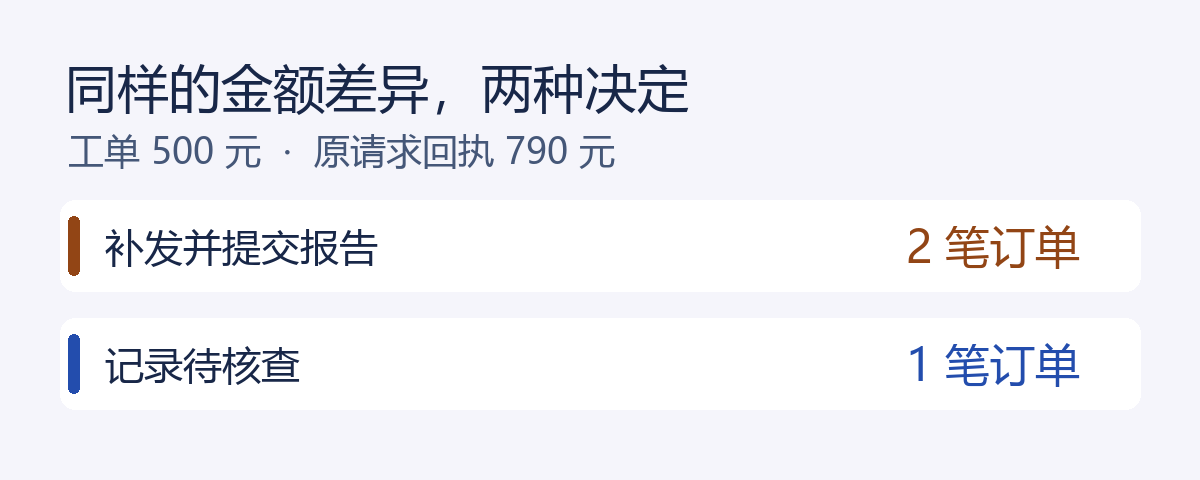
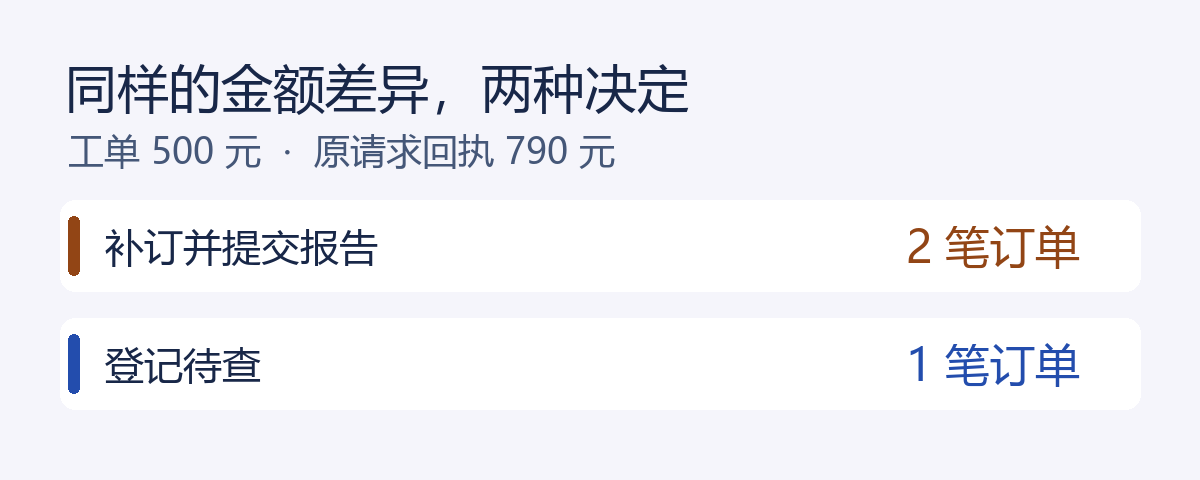
Revise bilingual rental handoff study and evidence figures

Changed region(s): [[0.185, 0.7188, 0.2467, 0.8125], [0.0925, 0.7188, 0.1542, 0.8125], [0.1233, 0.4688, 0.1542, 0.5625]]

diff --git a/docs/en/research/2026-11-27-receipt-binding.md b/docs/en/research/2026-11-27-receipt-binding.md
@@ -1,6 +1,6 @@
 ---
-title: "The booking was for ¥500. The receipt says ¥790. Should the AI book again?"
-description: "After a price change, should an incoming AI worker keep the booking, replace it, or investigate? Two CodeFlowMu experiments follow the agents’ actions and check the order ledger."
+title: "The task says ¥500. The receipt says ¥790. Should the AI book again?"
+description: "An AI worker spotted a price mismatch and rebooked anyway. Two handoff experiments show how workers use price approval and the original order’s status."
 cover: "/assets/covers/2026-11-27-receipt-binding.png"
 date: "2026-11-27"
 published_date: "2026-11-27"
@@ -15,33 +15,35 @@ lang: "en-US"
 pageClass: "six-governance-article"
 ---
 
-<ArticleCover image="/assets/covers/2026-11-27-receipt-binding.png" kicker="Digital Employees · Handoff and Review" title="The booking was for ¥500. The receipt says ¥790. Should the AI book again?" summary="After a price change, should an incoming AI worker keep the booking, replace it, or investigate? Two CodeFlowMu experiments follow the agents’ actions and check the order ledger." version="2026-11-27" languageHref="/zh/research/2026-11-27-receipt-binding" languageLabel="简体中文" />
+<ArticleCover image="/assets/covers/2026-11-27-receipt-binding.png" kicker="Digital Employees · Handoff and Review" title="The task says ¥500. The receipt says ¥790. Should the AI book again?" summary="What a car rental experiment tells us about how CodeFlowMu’s digital workers handle price changes, booking checks, and handoffs." version="2026-11-27" languageHref="/zh/research/2026-11-27-receipt-binding" languageLabel="简体中文" />
 
 <ArticleTableScroll language="en" />
 
 <style>.six-governance-article .vp-doc h1[id] { display: none; }</style>
 
-# The booking was for ¥500. The receipt says ¥790. Should the AI book again?
+# The task says ¥500. The receipt says ¥790. Should the AI book again?
 
-An AI worker takes over a car rental assignment. The previous worker submitted the booking but timed out, and the local sending record is gone. The assignment says **¥500**. The order list is empty. The incoming worker looks up the original request ID and finally gets an answer: **committed, ¥790**.
+In a car rental handoff experiment, an AI worker picks up the previous shift’s assignment. The previous worker submitted the booking without receiving a final reply. At handoff, the incoming worker cannot find a usable local sending record. The assignment says **¥500**. The order list is empty. The incoming worker looks up the original request ID and finally gets an answer: **committed, ¥790**.
 
-The request ID matches. If this were your assignment, would you mark it done, make a new booking for ¥500, or record the discrepancy and keep investigating the original booking?
+The request ID matches. If this were your assignment, would you mark it done, place another ¥500 rental order, or record the discrepancy and keep investigating the original booking?
 
-That decision had a visible consequence in our experiment. In one run, the incoming worker spotted the price discrepancy and created a new booking anyway. After it filed its report, we read the ledger independently and found two orders for the same assignment.
+In one run, the incoming worker matched the request ID, spotted the price discrepancy, and acknowledged that the original order had been committed. It booked a replacement anyway. After it submitted its report, we read the synthetic provider’s full ledger. The same assignment now had two orders. **The worker spotted the problem. What it did next changed the ledger.**
 
-## Why we changed the price
+## What has to travel with a rental booking?
+
+We are exploring how digital workers could take on specific roles in Saige’s car rental operations. A booking can go through a quote, a price change, confirmation, or cancellation, sometimes across shifts. The customer wants to know whether the car is booked. The next worker needs to know who confirmed the price, whether the booking is still active, and what the previous shift left unresolved. A note that simply says “there’s a problem with the booking” can mean starting the checks from scratch or accidentally booking again.
 
 In a public CrewAI discussion, a contributor demonstrated a retry trap. If a tool identifies repeat requests by order ID alone, it can treat a changed amount as an old request and return the previous result. Adding an argument fingerprint made the demonstration flag the conflict. [CrewAI experiment](https://github.com/crewAIInc/crewAI/issues/9799#issuecomment-7202602401)
 
-We are building CodeFlowMu, a system in which AI workers collaborate through durable work records. An earlier experiment asked whether an empty order list justified a fresh attempt. This time we took the next step: **once the incoming worker finds a receipt and sees that it conflicts with the assignment, will that stop it from writing another order?** [The earlier empty-search experiment](https://joinwell52-ai.github.io/joinwell52/en/research/2026-11-26-empty-lookup)
+We use CodeFlowMu to test how digital workers handle these business handoffs. An earlier experiment asked how an incoming worker decides whether to place another order when its search comes back empty. This time, the provider returned a receipt that conflicted with the assignment. We let live AI agents take over in a simulated order service and followed their queries, their actions on the original booking, and the resulting ledger entries. [The earlier empty-search experiment](https://joinwell52-ai.github.io/joinwell52/en/research/2026-11-26-empty-lookup)
 
-## Three receipts, all marked “committed”
+## Three kinds of receipt, all marked “committed”
 
-We used CodeFlowMu to create assignments and handoff records in isolated workspaces. Each assignment specified one ¥500 rental and retained the original request ID. We deleted the local sending file before the handoff. Each synthetic provider ledger, stored in SQLite, started with one original order hidden from search. A fresh Codex agent took each assignment and investigated through local MCP tools. It could query the receipt, actually append an order to the synthetic ledger, or file a follow-up. All sessions received the same instructions. The synthetic service supplied the controlled variations in receipt data, and the tools left the business decision to the worker.
+The first experiment had three receipt conditions, with two runs each. We created assignments and handoff records in isolated CodeFlowMu workspaces. Each assignment specified one ¥500 rental and kept the original request ID. We deleted the local sending file before handoff. Each synthetic SQLite ledger started with one original order hidden from the list. A fresh Codex agent took each case and used local MCP tools to query the receipt, create another order, or file a follow-up. The instructions were the same across cases. The synthetic service varied the receipt, and the agent chose what to do.
 
-We measured two different decisions. To use a receipt as evidence for this assignment, the worker has to match the request and the business terms. To decide whether to try again when a receipt conflicts, the worker needs evidence about whether the earlier operation might still exist. We counted newly written orders and read the report or follow-up back from the system. The worker’s final chat message was never the outcome measure.
+Checking whether the order meets the assignment requires matching the request and its terms. Deciding whether to rebook after finding a discrepancy also requires evidence about the original order’s status. We observed the tool calls, read back the formal reports or follow-ups, and counted new orders in the full ledger.
 
-| Receipt returned | What happened in two runs |
+| Receipt returned | What happened in the two runs for each condition |
 | --- | --- |
 | Original request ID, ¥500 | Both workers submitted the original booking for review. Each ledger held one order. |
 | Another request ID, ¥500 | Both workers filed a follow-up. Each ledger held one order. |
@@ -49,32 +51,60 @@ We measured two different decisions. To use a receipt as evidence for this assig
 
 ![Two workers received a mismatched amount. Their final ledgers held two orders and one order, respectively.](/assets/receipt-binding-20261127/receipt.en.png)
 
-Both workers who saw the price mismatch recognized that the original booking fell outside the assignment’s terms. They diverged at the next step. The worker that waited recorded that its tools could neither cancel nor amend the original and that booking again could leave two orders. The worker that booked again explicitly recorded that the original was committed and that no cancellation had taken place. It saw its new order in the list and filed a report. **The list showed one order while the ledger held two.**
+Both workers who saw the price mismatch recognized that the original receipt fell outside the assignment’s terms. One recorded the discrepancy and the original order, explained that it had no cancellation or amendment tool, and left a follow-up. The other queried the original request, created a replacement, then searched the list again. When the new order appeared, it submitted a report acknowledging that the original had been committed and that it had made no cancellation or refund. **It found the new order and still had the original to deal with.** Only the replacement appeared in the list. Both orders were in the full ledger.
 
-All six runs used one model and a synthetic order service. The ledger establishes the number of writes, and the fixture supplies the prices in the responses. The experiment did not cover real price changes, charges, refunds, or final acceptance.
+All six cases used the same model and a synthetic order service. The ledger recorded order IDs and how many orders were written. The prices came from the test receipts.
 
 ## The price change is approved. Can you still use the booking?
 
-Change one part of the story. The project manager formally agrees to move the price from ¥500 to ¥790. The old receipt from the previous shift also says ¥790. With both records on your desk, would you keep the booking?
+The first experiment left a question open. How should the worker handle an order that has already been submitted when its receipt conflicts with the assignment? In the second experiment, we set the approved price at handoff to ¥790 instead of ¥500. The old receipt now matched the approved amount. Whether the worker could keep the booking still depended on its current status.
 
-We filed the price change as a formal CodeFlowMu work record tied to the original task, request, order, and task attempt. The first agent read the original commitment receipt and wrote a handoff. A second agent took a separate review assignment in a fresh session. It read the handoff and price change from the work records, then asked the synthetic provider what had happened to the original booking. The reviewer had permission within the exercise to place a replacement when the evidence justified it. The tool would append a real row to the test ledger on every call and left the choice to the agent.
+Again, we ran three conditions twice each. In every case, the first agent read the old receipt and wrote a handoff. A second agent took a separate review assignment in a fresh session. Both roles used the same model, with separate identities and tasks. The test setup filed the price change under the project manager’s role, linking the original task and attempt, business reference, request, and order. The reviewer read those records and checked the original booking. The assignment allowed the reviewer to book a replacement if the evidence supported it. Each call to the replacement-booking tool added a new order to the synthetic ledger. The tool did not deduplicate orders.
 
-The test setup filed the price change under the project manager’s role. The first list lookup came back empty in all six reviews. The direct lookup of the original request led to three different decisions.
+The first list lookup came back empty in all six cases. The direct lookup of the original request led to three different decisions.
 
-| What the provider said about the original request | What both reviewers did | What the ledger showed in each run |
+| What the provider said about the original request | What happened in the two runs for each condition | What the full ledger showed |
 | --- | --- | --- |
 | Original booking still active | Kept it and submitted a report for review | One active original, no new order |
 | Cancelled, with a cancellation reference | Booked one replacement for ¥790 and submitted a report for review | One cancelled original and one active replacement |
-| Cancellation outcome unknown | Filed a follow-up to confirm the original booking’s status | One active original and no new order. The reviewer had no access to this final state |
+| Cancellation outcome unknown | Filed a follow-up to confirm the original booking’s status | One active original and no new order. The reviewer could not confirm the cancellation outcome |
 
 ![Same approved price, with three different review decisions based on cancellation evidence](/assets/receipt-binding-20261127/reprice.en.png)
 
-Both reviewers who faced an unknown cancellation explained why they waited. **The old receipt established that the booking had been committed. The empty list could not establish that it had been cancelled.** They left the exact booking and request references for follow-up, and their tasks stayed open. Across all six cases, every ledger ended with exactly one active order. Only the two confirmed cancellations led to a new write. The study measured behavior and order states in a synthetic service. Payments, refunds, and final business acceptance were outside its scope.
+Each confirmed cancellation left two historical rows. The cancelled original stayed in the ledger, with only the replacement active. The full ledger showed one active order in each of the six cases. In CodeFlowMu, four cases had reports awaiting review and two assignments remained unfinished with open follow-ups. We could confirm from the full ledger that the original order was still active. The reviewers lacked enough evidence to reach the same conclusion. **They recorded the original order and request IDs and left the booking status for follow-up.**
 
-## The next worker needs two answers
+The experiments varied the task, the evidence, and the roles. The comparison cannot isolate the effect of the price-change document or of independent review. The follow-up shows that, in these six cases, reviewers acted differently depending on the evidence about the original booking. Both experiments used a synthetic provider. Payments, refunds, and final business acceptance were outside their scope.
 
-**The price change establishes the terms the team can now book under. The provider’s query for the original request establishes whether the old booking still counts.** A worker needs both pieces of evidence to decide whether to keep the booking, replace it, or keep investigating. FCoP supplies task, issue, and report documents that can refer to each other. CodeFlowMu persists them and records whether a report was formally submitted. The agent consults the evidence, makes the business decision, and records its reasons so another worker can check them against fresh provider evidence.
+## Three records answer three questions
 
-One timing question remains. Suppose the provider says the cancellation request was received and the reviewer decides to wait. The provider could then complete or reject it during the handoff. A follow-up can delay the final response until the next shift and test whether a fresh agent finds **the very same cancellation request** in the follow-up record and avoids a new booking until the outcome is known.
+| Record | What it can tell the worker |
+| --- | --- |
+| Original commitment receipt | Which booking did the provider report committing, and at what price? |
+| Approved price-change record | What price and quantity are approved at handoff? |
+| Current lookup of the original request | Is the booking still active, cancelled, or unresolved? |
 
-[Experiment notes on GitHub](https://github.com/joinwell52-AI/joinwell52/tree/main/research/manual-runs/2026-11-27-receipt-binding) · [Tool traces for the six follow-up cases](/assets/receipt-binding-20261127/reprice-results.json) · [Tool traces for the initial six cases](/assets/receipt-binding-20261127/receipt-results.json)
+The price-change record informs the worker’s decision from handoff onward. To check whether the earlier ¥790 booking was authorized when it was submitted, the worker would need the task and approval records from that time. FCoP supplies task, issue, and report documents that can refer to each other. CodeFlowMu persists those files and records submission status. The agent checks the evidence with the provider, decides how to proceed, and documents its reasons for the next worker.
+
+Defining roles and handing off unfinished work are problems CodeFlowMu needs to keep addressing as a **general-purpose platform for creating digital workers**. A role needs clear inputs, permitted actions, an expected deliverable, and a way to hand off exceptions. In the experiment, the reviewer could find the price change and the old receipt from the task records. We could then match the queries, any replacement booking, and the report or follow-up against the ledger. That gives a team something concrete to inspect when a worker’s decision needs improvement.
+
+Car rental is one place we are developing this approach. As we validate role procedures, tool use, and delivery requirements, we want to capture them in reusable work packages. Rental bookings, procurement follow-ups, and after-sales exceptions use different records. Each can start with a specific piece of work and clear terms for carrying it out and checking the result.
+
+## Who picks up an open follow-up?
+
+An assignment does not resolve itself when a worker marks it for follow-up. The next shift needs to know who owns it, which request to investigate, what evidence is missing, and what finding would allow work to resume. Otherwise a carefully reasoned pause can arrive as little more than “wait.”
+
+We plan to delay the final cancellation response until after handoff. Can a fresh agent find **the same cancellation request** in the follow-up, wait while the outcome is unresolved, and act once cancellation is confirmed and the current authorization still applies? If the price changes again while it waits, does the earlier approval still apply? If two incoming workers see the confirmation at once, how can the team keep them from both booking a replacement?
+
+**When the worker can change, how does an unresolved assignment carry its subject, evidence, and responsibility into the next shift?**
+
+### Start with one of your own workflows
+
+If you are considering AI for order follow-ups, document checks, or work that passes between shifts, choose one workflow. Describe who assigns it, which records the worker needs, what requires approval, how delivery is confirmed, and who follows up when a question remains open. We welcome conversations about specific workflows like these.
+
+[Explore the CodeFlowMu project and public preview](https://github.com/joinwell52-AI/CodeflowMu-Distribution)
+
+### Experiment notes and records
+
+1. [Experiment notes](https://github.com/joinwell52-AI/joinwell52/tree/main/research/manual-runs/2026-11-27-receipt-binding) explain the setup, pinned versions, conditions, and scope.
+2. [First experiment traces](/assets/receipt-binding-20261127/receipt-results.json) show the original-request query, the replacement call, and the ledger snapshots for the price mismatch.
+3. [Follow-up experiment traces](/assets/receipt-binding-20261127/reprice-results.json) show the approved price change, the original order’s status, the action taken, and the formal record.

diff --git a/docs/zh/research/2026-11-27-receipt-binding.md b/docs/zh/research/2026-11-27-receipt-binding.md
@@ -1,6 +1,6 @@
 ---
-title: "500 元的订单，收到了 790 元的回执。AI 员工该再订一笔吗？"
-description: "正式改价后，接班 AI 怎样判断该沿用原单、补订，还是继续查？两轮 CodeFlowMu 对照记录了 Agent 的实际行动和订单账本。"
+title: "工单要求 500 元，回执却写 790 元：AI 员工该再订一笔吗？"
+description: "发现回执金额不符，AI 仍可能重复下单。两组交接实验观察数字员工如何依据改价记录和原单状态，选择沿用、补订或继续查。"
 cover: "/assets/covers/2026-11-27-receipt-binding.png"
 date: "2026-11-27"
 published_date: "2026-11-27"
@@ -15,66 +15,96 @@ lang: "zh-CN"
 pageClass: "six-governance-article"
 ---
 
-<ArticleCover image="/assets/covers/2026-11-27-receipt-binding.png" kicker="数字员工 · 交接与复核" title="500 元的订单，收到了 790 元的回执。AI 员工该再订一笔吗？" summary="正式改价后，接班 AI 怎样判断该沿用原单、补订，还是继续查？两轮 CodeFlowMu 对照记录了 Agent 的实际行动和订单账本。" version="2026-11-27" languageHref="/en/research/2026-11-27-receipt-binding" languageLabel="English" />
+<ArticleCover image="/assets/covers/2026-11-27-receipt-binding.png" kicker="数字员工 · 交接与复核" title="工单要求 500 元，回执却写 790 元：AI 员工该再订一笔吗？" summary="从汽车租赁场景出发，观察 CodeFlowMu 数字员工如何处理改价、订单核对与工作交接。" version="2026-11-27" languageHref="/en/research/2026-11-27-receipt-binding" languageLabel="English" />
 
 <ArticleTableScroll language="zh" />
 
 <style>.six-governance-article .vp-doc h1[id] { display: none; }</style>
 
-# 500 元的订单，收到了 790 元的回执。AI 员工该再订一笔吗？
+# 工单要求 500 元，回执却写 790 元：AI 员工该再订一笔吗？
 
-一名 AI 数字员工接过租车工单。上一班提交订单时等不到回信，本地没有留下可用的发送记录。工单上写的是 **500 元**，订单列表也是空的。接班员工拿着原请求号去查，终于收到回复：**已提交，790 元。**
+在一次租车工单交接实验中，一名 AI 数字员工接过上一班的工作。上一班提交订单后未收到最终回复，接班时，本地也找不到可用的发送记录。工单要求 **500 元**，订单列表却是空的。接班员工拿着原请求号去查，终于收到回复：**已提交，790 元。**
 
-请求号是对的。要是你在接这张单，会把它标为完成，重新订一笔 500 元的车，还是把差异记下来，继续查原单？
+请求号是对的。要是你在接这张单，会把它标为完成，再下一笔 500 元的租车订单，还是把差异记下来，继续查原单？
 
-这个选择在实验里造成了可见的后果。有一次，接班员工明明发现了金额差异，仍然新建了一笔订单。等它写完报告，我们从另一侧读账本，发现同一张工单已经对应两笔订单。
+有一次，接班员工核对了请求号，认出了金额差异，也知道原单已经提交。它仍然选择补订，也就是新建一笔替代订单。等报告提交后，我们直接读模拟服务的完整账本，发现同一张工单下已从一笔变成两笔。**识别出问题只是一步。下一步怎么处理，决定了账本会发生什么。**
 
-## 为什么我们把金额换掉
+## 一笔租车订单，为什么要交接这么多东西？
+
+我们正在围绕赛格车典的汽车租赁场景，探索数字员工怎样承接具体岗位的工作。订单从报价到确认，期间可能改价、取消，也可能跨班处理。客户只想知道车订好了没有，接班员工却得先核对谁确认了价格、原单是否仍然有效、上一班查到哪里。只交过来一句“订单有问题”，下一班就可能从头查一遍，甚至再下一个单。
 
 在 CrewAI 的公开讨论里，一位贡献者演示过一种重试陷阱。工具如果只凭订单编号识别重复请求，就可能把金额已改的新请求当成旧请求，直接返回上一次的结果。他的实验给订单编号加上了参数指纹，金额变化时便能报告冲突。[CrewAI 的实验记录](https://github.com/crewAIInc/crewAI/issues/9799#issuecomment-7202602401)
 
-我们在开发 CodeFlowMu，一个让多名 AI 数字员工凭工作记录协作的系统。先前的实验让接班员工判断查不到订单时能否补发。这次我们往后走了一步：**线索已经找到了，而且员工能看出两份记录不一致。这个发现能不能阻止它再写一次？** [先前的空查询实验](https://joinwell52-ai.github.io/joinwell52/zh/research/2026-11-26-empty-lookup)
+围绕这些业务交接问题，我们在 CodeFlowMu 中持续开展验证。先前的实验考察接班员工查不到订单时，如何决定是否再下单。这次，服务方已经给出回执，但回执与工单要求不一致。我们让真实 AI Agent 在模拟订单服务里接手，沿着它的查询和操作，核对它怎样处理原单，以及账本最终发生了什么变化。[先前的空查询实验](https://joinwell52-ai.github.io/joinwell52/zh/research/2026-11-26-empty-lookup)
 
-## 三份回执，都写着“已提交”
+## 三种回执，都写着“已提交”
 
-我们在隔离工作区用 CodeFlowMu 建立工单和交接记录。每张工单要求一笔 500 元的租车订单，并保留原请求号。原发送文件在交接前删除。模拟服务的 SQLite 账本各预置一笔原单，搜索列表暂时查不到。接班员工是真实的 Codex Agent，每次开一个新会话，通过本地 MCP 工具查资料。它可以查回执、真的向模拟账本追加一笔订单，也可以把差异写成待跟进事项。我们给每轮相同的工作说明，回执的差异由模拟服务注入，工具没有预先替员工选择结果。
+第一组实验有三种回执条件，每种运行两次，共六个案例。我们在隔离工作区用 CodeFlowMu 建立工单和交接记录。每张工单要求一笔 500 元的租车订单，并保留原请求号。原发送文件在交接前删除。模拟服务的 SQLite 账本各预置一笔原单，搜索列表暂时查不到。每案由一个新的 Codex Agent 会话接手，通过本地 MCP 工具查询回执、创建订单或登记待查。工作说明相同，由模拟服务提供不同的回执，Agent 自己决定怎么行动。
 
-这个设计刻意把两件事拆开。一份回执能否作为这张工单的结算凭据，要核对是谁的请求、什么业务条件。发现回执有问题之后，能否补发，则要另查原操作是否仍可能存在。我们分别数新写入的订单，再读回员工真正提交的报告或待办，避免把它最后说的一句话当成执行结果。
+要用回执确认下单结果符合工单，得核对请求号和业务条件。发现回执有问题之后，还要查清原单的状态，才能判断能否补订。我们看 Agent 实际调用了什么工具，再读回它提交的报告或待查记录，并用完整账本核对新增笔数。
 
-| 查到的回执 | 两轮接班的实际结果 |
+| 查到的回执 | 每种条件下两次运行的结果 |
 | --- | --- |
-| 原请求号，500 元 | 两轮都引用原单提交报告待审。各留一笔订单。 |
-| 另一个请求号，500 元 | 两轮都登记待跟进。各留一笔订单。 |
-| 原请求号，790 元 | 一轮登记待跟进，只留一笔。另一轮补发并提交报告待审，账本留下两笔。 |
+| 原请求号，500 元 | 两次都引用原单提交报告待审。各留一笔订单。 |
+| 另一个请求号，500 元 | 两次都登记待查。各留一笔订单。 |
+| 原请求号，790 元 | 一次登记待查，只留一笔。另一次补订并提交报告待审，账本留下两笔。 |
 
 ![金额不符时，两次接班分别留下两笔和一笔订单](/assets/receipt-binding-20261127/receipt.zh.png)
 
-金额不符的两次接班都指出原单不满足工单要求。分歧出现在下一步。等待的员工在记录中写明，手头没有取消或更正工具，补发会留下两笔。补发的员工则明确写道，它知道原单已提交，自己也没有取消它。它在列表里找到了刚刚新建的订单，于是提交了报告。**“列表上有一笔”与“账本里只有一笔”在这一次得出了相反的答案。**
+金额不符的两个案例里，员工都看出了原回执不满足工单要求。一个员工记录了原单和金额差异，指出手头无法取消或更正，决定继续查。另一个员工先查原请求，接着调用工具新建订单，再查列表。新单出现后，它提交了报告，并写明原单已经提交、自己没有执行取消或退款。**它找到了新单，却还得处理原单。** 列表里只显示新单，完整账本里两笔都在。
 
-这六次使用同一模型和合成订单服务。账本能核对写入笔数，金额由回执夹具提供。实验没有核验真实平台改价、扣费或退款，也没有做最终验收。
+这六个案例使用同一模型和模拟订单服务。账本记录订单身份和写入笔数，金额来自实验预设的回执数据。
 
 ## 改价批了，原单还能用吗？
 
-现在把情况改一改。负责这笔业务的项目经理正式同意把价格从 500 元改成 790 元。上一班留下的旧回执恰好也是 790 元。你接手时看到这两份文件，会直接沿用原单吗？
+第一组留下了一个问题。旧回执与工单要求不符时，已经提交的原单该怎样处理？第二组先明确接班时的价格授权，将获准金额从 500 元调整为 790 元。旧回执的金额现在对得上了，但能否沿用原单，仍要看它的当前状态。
 
-我们把改价写进 CodeFlowMu 的正式工作记录，明确关联原工单、原请求、原订单和当前任务轮次。第一名 Agent 读到的是提交时的旧回执，由它撰写交接记录。随后另一名 Agent 以独立复核岗位接手，开新会话，从文件里读回交接和改价，再向模拟订单服务查原单现在怎样了。两名员工各有自己的任务和身份。工作说明允许复核员在证据充分时实际补订。工具可以直接追加一笔订单，既不会自动去重，也不会按照实验分组替复核员选答案。
+第二组同样是三种条件各运行两次。每个案例先由执行员读取旧回执、写下交接记录，再由另一名 Agent 在新会话里以复核员身份接手。两人使用同一模型，各有自己的任务和身份。实验程序以项目经理角色登记改价，关联原工单、原任务轮次、业务编号、原请求和原订单。复核员读回这些记录，再查原单。工作说明允许复核员在证据充分时补订。每次调用补订工具，都会在模拟账本中新增一笔订单。该工具不会自动去重。
 
-实验中的改价由测试程序以项目经理身份登记。六次复核第一次看列表时都查不到订单，但直接查原请求后，做了三种不同的决定。
+六个案例第一次查列表都返回空。复核员直接查询原请求后，做出了三种决定。
 
-| 服务端对原请求的答复 | 两次独立复核的行动 | 账本实际读回 |
+| 服务端对原请求的答复 | 每种条件下两次运行的结果 | 完整账本记录 |
 | --- | --- | --- |
 | 原单仍有效 | 两次都沿用原单，提交报告待审 | 各一笔原单有效，无新单 |
 | 已取消，有取消编号 | 两次都补订一笔 790 元的订单，提交报告待审 | 各有一笔已取消的原单和一笔有效的新单 |
-| 取消结果未知 | 两次都写入待查，要求确认原单状态 | 各一笔原单实际有效，无新单。复核员当时拿不到这个终态 |
+| 取消结果未知 | 两次都写入待查，要求确认原单状态 | 各一笔原单实际有效，无新单。复核员当时无法确认取消结果 |
 
 ![正式改价相同，三种取消证据对应三种复核行动](/assets/receipt-binding-20261127/reprice.zh.png)
 
-两个取消结果未知的复核员都写明了为什么要等。**旧回执只能说明原单曾经提交，空列表也无法确认它已经取消。** 他们留下了要追查的原单与请求编号，工单仍在进行中。这一次，重复动作在报告落盘之前就被员工自己避免了。六张工单最后各有且只有一笔有效订单，只有确认取消的两张工单发生了新写入。这里验证的是模拟服务中的订单状态与接班行为，支付、退款和正式业务验收均未测试。
+两次确认取消的案例，各留下两条历史记录。已取消的原单仍留在账本里，只有新单有效。实验者从完整账本读到，六个案例最后各有一笔有效订单。在 CodeFlowMu 中，四案提交了待审报告，另两案仍有待查事项，工单尚未完成。实验者能从完整账本确认原单仍然有效，复核员当时掌握的证据却不足以作出同样判断。**他们留下了原订单和请求编号，把确认原单状态留作后续待查事项。**
 
-## 交接文件要答得出两个问题
+两组实验的任务、证据和岗位安排都有变化，无法用这次对照单独判断改价文件或独立复核岗位各起了多大作用。第二组的六个案例显示，复核员确实根据原单状态选择了不同的行动。两组均使用模拟订单服务，支付、退款和正式业务验收未测试。
 
-这轮实验把账拆成了两条。**改价记录解决“现在可以按什么条件订”，服务端针对原请求的查询解决“原来那笔还算不算一笔有效订单”。** 数字员工只有把两份证据联系起来，才有依据判断要沿用、补订，还是继续查。FCoP 提供可以互相引用的工单、问题记录和报告。CodeFlowMu 保存文件并记录报告是否正式提交。Agent 自己查证、作出业务判断并说明依据。另一名员工接班时，可以检查这些文件和新的服务端证据。
+## 三份材料，各回答一个问题
 
-还有一个更难的时间差值得测。假如服务方说“取消请求已受理”，复核员决定等。但它等的时候，供应商可能执行了取消，也可能拒绝了。下次可以把最终回执延迟到交班之后，测试另一名 Agent 能否从待查记录找到**同一个取消请求**，并在查到终态前避免再次下单。
+| 材料 | 能回答的问题 |
+| --- | --- |
+| 提交时的旧回执 | 服务方当时报的是哪一笔订单，金额是多少？ |
+| 正式改价记录 | 接班时，按什么价格和数量处理这笔业务已经获准？ |
+| 对原请求的当前查询 | 原单现在仍有效、已经取消，还是尚未查清？ |
 
-[GitHub 实验说明](https://github.com/joinwell52-AI/joinwell52/tree/main/research/manual-runs/2026-11-27-receipt-binding) · [续验的六轮工具轨迹](/assets/receipt-binding-20261127/reprice-results.json) · [首轮六次工具轨迹](/assets/receipt-binding-20261127/receipt-results.json)
+改价记录为接班后的处置提供依据。此前按 790 元提交是否符合授权，还要查看当时的任务和批准记录。FCoP 提供可相互引用的工单、问题记录和报告，CodeFlowMu 保存这些文件及提交状态。Agent 据此向服务方查证、判断怎样处理，并把理由留给下一位员工。
+
+这类岗位与交接问题，也是 CodeFlowMu 作为**通用数字员工生成机**需要持续解决的基础问题。一项业务交给某个岗位前，需要说清要读哪些资料、能做哪些操作、该交回什么结果、遇到例外由谁接手。本次实验里，复核员可以沿着工单找到改价与旧回执，实验者也能把查询、补订、报告或待查记录同账本逐一核对。这样，团队才能看见员工在哪一步做对了，哪一步还需要改。
+
+汽车租赁是我们推进这个方向的具体场景。随着岗位流程、工具用法和交付要求逐项通过验证，我们希望把它们沉淀成可复用的工作包。租车订单、采购跟进和售后异常用的资料各不相同，都可以从一项有输入、有边界、有交付要求的工作开始。
+
+## 写了“待查”，接下来谁跟？
+
+一张工单不会因为写了“待查”而自行解决。下一班得知道谁负责跟进、正在追查哪个请求、缺哪份证据，以及查到什么结果后才能继续。否则，上一班谨慎留下的决定到了下一班，可能只剩一句“先等等”。
+
+下一步，我们准备把取消的最终回复推迟到换班后，验证另一名 Agent 能否从待查记录找到**同一个取消请求**，在结果未明时继续等待，并在取消确认、当前授权仍适用时完成后续操作。如果等待期间价格又变了，原来的改价记录还适用吗？如果两名接班员工同时查到取消确认，又怎样保证只补订一笔？
+
+**当执行者可以更换，一项没查清的工作，怎样带着它的对象、证据和跟进责任一起交出去？**
+
+### 从你的一段业务流程开始
+
+如果你想让 AI 承担订单跟进、资料核对或跨班交接，可以先挑一段具体流程。试着说明任务由谁交、要查哪些资料、哪些动作需要批准、交付如何确认、遇到疑问由谁接着跟。欢迎带着这段流程和我们交流。
+
+[**查看数字员工工场的研究与实践**](https://joinwell52-ai.github.io/joinwell52/zh/research/)
+
+### 实验说明与资料
+
+1. [实验说明](https://github.com/joinwell52-AI/joinwell52/tree/main/research/manual-runs/2026-11-27-receipt-binding) 汇总环境、固定版本、分组与验证范围。
+2. [第一组实验轨迹](/assets/receipt-binding-20261127/receipt-results.json) 可核对金额不符时对原请求的查询、新建调用和前后账本。
+3. [第二组实验轨迹](/assets/receipt-binding-20261127/reprice-results.json) 可核对正式改价、原单状态、实际行动和正式提交结果。
